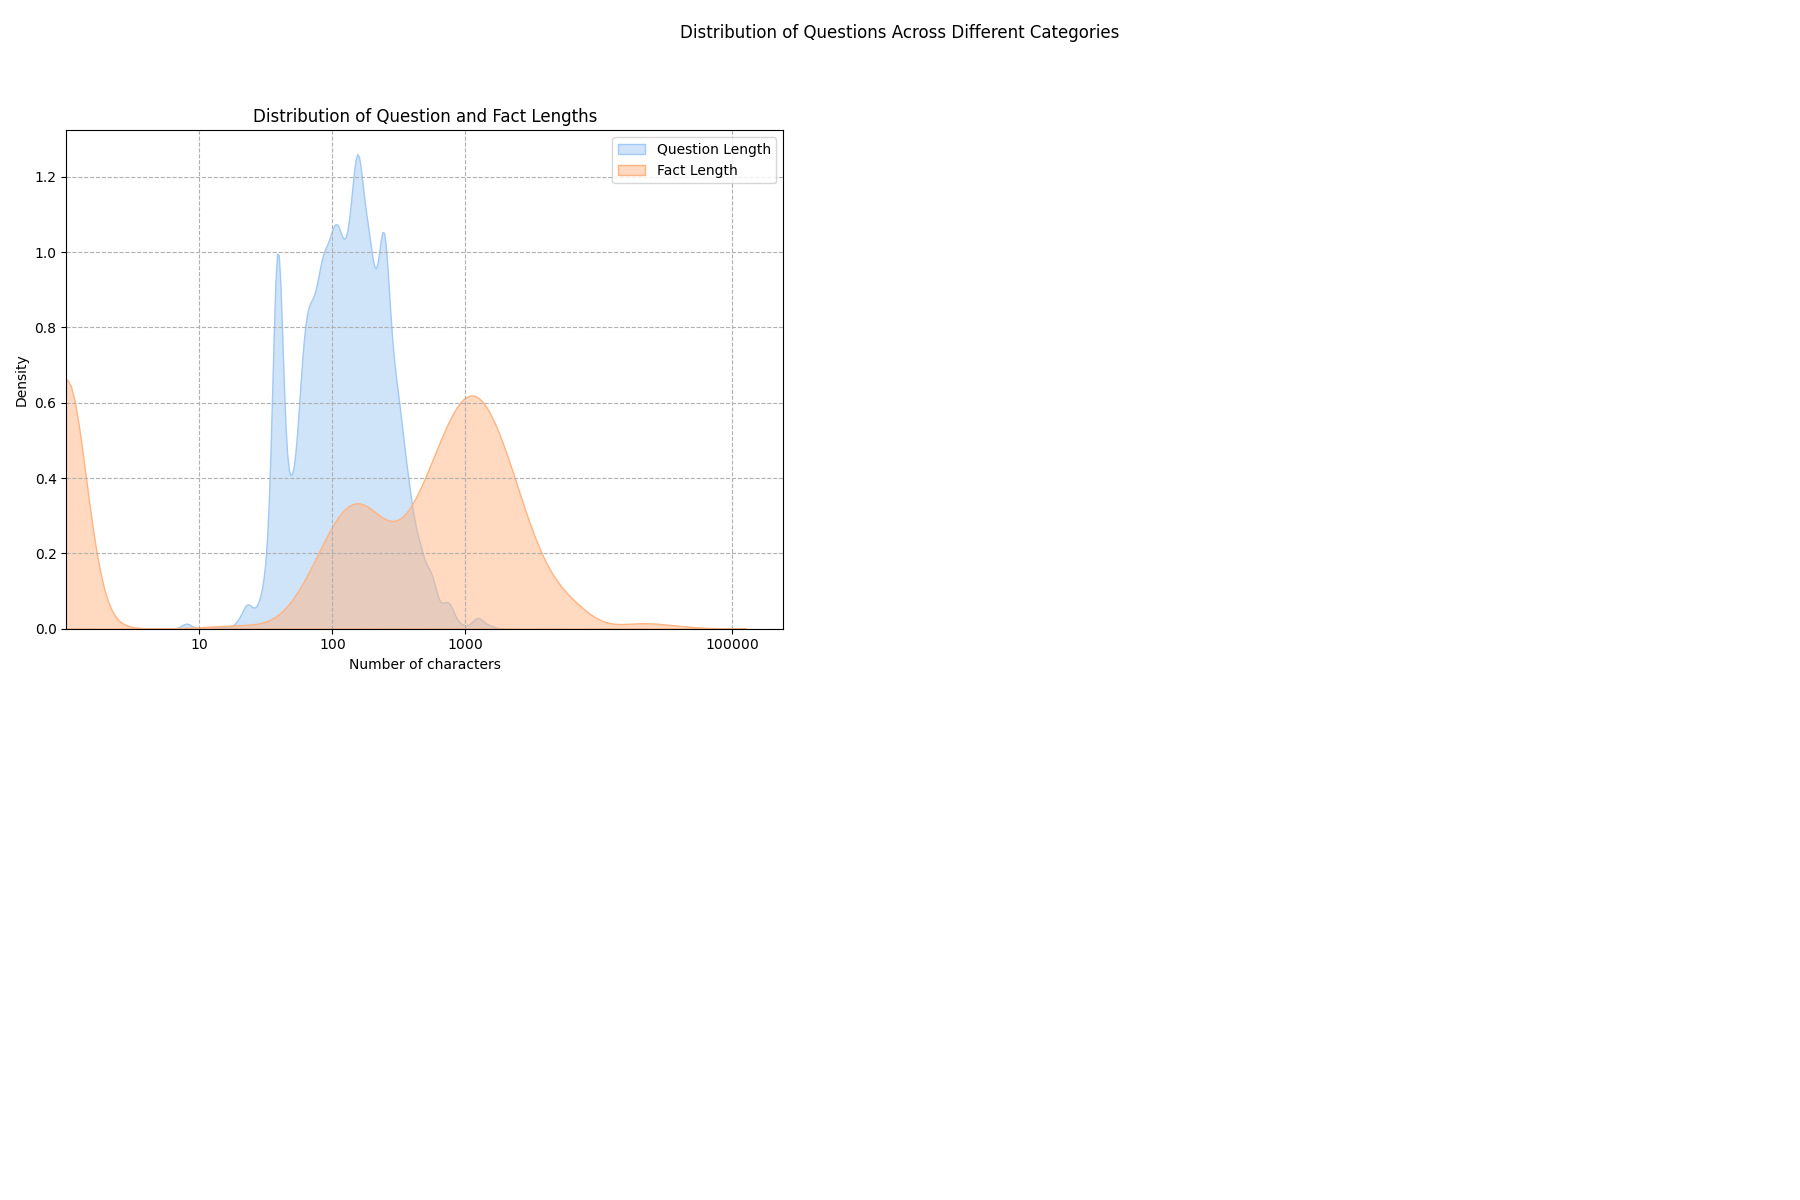
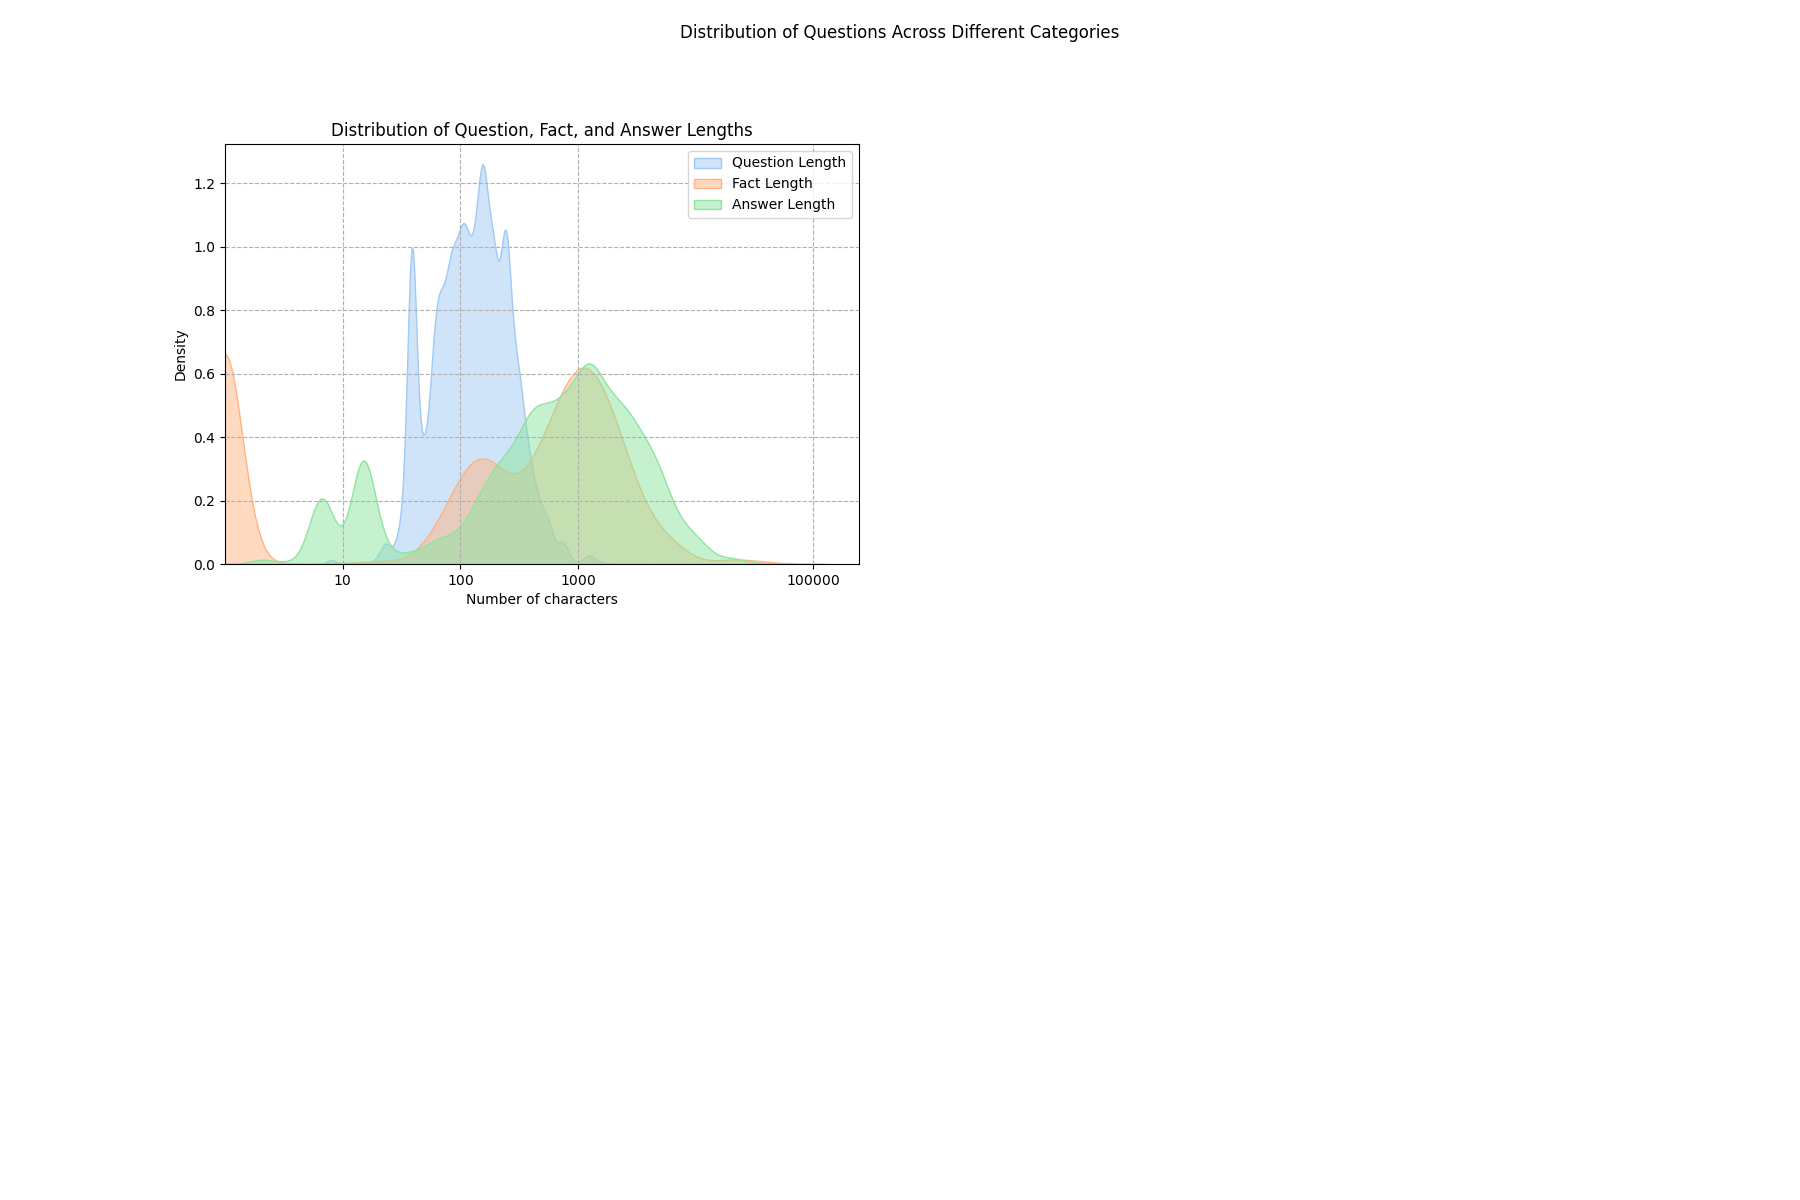
add answer distribution

Changed region(s): [[0.0933, 0.0925, 0.4667, 0.555], [0.0, 0.3083, 0.0933, 0.5242], [0.4044, 0.5242, 0.4356, 0.555]]

diff --git a/src/report.py b/src/report.py
@@ -155,32 +155,24 @@ def generate_visual_report(df: pd.DataFrame, save_path='results'):
     plot_double_pie(ax6, df, outer_col="Course", inner_col='Use_Art', title='Answers with citations of articles', course_colors=course_colors)
 
     # Adjust layout and save the figures
-    # plt.tight_layout(rect=[0, 0, 0.85, 0.95])
     fig.savefig(save_path+"/multichart.pdf", format='pdf')
     fig.savefig(save_path+"/multichart.png", format='png')
 
 
-# Function to plot distribution curve
-def plot_distribution_curve(ax, question_lengths, fact_lengths, title):
+# Function to plot distribution curves
+def plot_distribution_curve(ax, lengths_list, labels, title):
+    # Ensure that lengths_list and labels are the same length
+    assert len(lengths_list) == len(labels), "lengths_list and labels must be the same length."
+    
     # Filter out lengths smaller than 1 to avoid log(0) errors
-    question_lengths = question_lengths[question_lengths >= 1]
-    fact_lengths = fact_lengths[fact_lengths >= 1]
-
-    # Check if the data is empty after normalization
-    if question_lengths.empty or fact_lengths.empty:
-        ax.text(0.5, 0.5, 'No data available', ha='center', va='center', transform=ax.transAxes)
-        ax.set_title(title)
-        ax.set_xlabel('Log(Length)')
-        ax.set_ylabel('Normalized Density')
-        ax.grid(True, which="both", ls="--")
-        return
+    filtered_lengths = [lengths[lengths >= 1] for lengths in lengths_list]
 
     # Get pastel colors from the palette
-    pastel_colors = sns.color_palette("pastel")
+    pastel_colors = sns.color_palette("pastel", len(labels))
 
     # Plot the KDE plots for the normalized lengths with pastel colors
-    sns.kdeplot(np.log10(question_lengths), ax=ax, label='Question Length', bw_adjust=0.5, fill=True, alpha=0.5, color=pastel_colors[0])
-    sns.kdeplot(np.log10(fact_lengths), ax=ax, label='Fact Length', bw_adjust=0.5, fill=True, alpha=0.5, color=pastel_colors[1])
+    for lengths, label, color in zip(filtered_lengths, labels, pastel_colors):
+        sns.kdeplot(np.log10(lengths), ax=ax, label=label, bw_adjust=0.5, fill=True, alpha=0.5, color=color)
     
     # Adjust x-axis ticks for the log scale manually
     ax.set_title(title)
@@ -199,19 +191,25 @@ def plot_distribution_curve(ax, question_lengths, fact_lengths, title):
 
 # Function to generate the visual report
 def generate_visual_report2(df: pd.DataFrame, save_path='results'):
+
+    columns_to_plot = ['Question', 'Facts', 'Answer']
+    labels = ['Question Length', 'Fact Length', 'Answer Length']
+    title = 'Distribution of Question, Fact, and Answer Lengths'
+
+
     df = preprocess_data(df)
 
-    # Initialize the figure and grid with two rows and three columns
+    # Initialize the figure and grid with two rows and two columns
     fig = plt.figure(figsize=(18, 12))
     fig.suptitle('Distribution of Questions Across Different Categories')
     gs = GridSpec(2, 2, figure=fig)
 
     ax1 = fig.add_subplot(gs[0,0])
-    df['Question Length'] = df['Question'].apply(lambda x: len(str(x)))
-    df['Fact Length'] = df['Facts'].apply(lambda x: len(str(x)))
-    plot_distribution_curve(ax1, df['Question Length'], df['Fact Length'], 'Distribution of Question and Fact Lengths')
+    
+    lengths_list = [df[col].apply(lambda x: len(str(x))) for col in columns_to_plot]
+    
+    plot_distribution_curve(ax1, lengths_list, labels, title)
 
     # Adjust layout and save the figures
-    plt.tight_layout(rect=[0, 0, 0.85, 0.95])
-    fig.savefig(save_path+"/multichart2.pdf", format='pdf')
-    fig.savefig(save_path+"/multichart2.png", format='png')
+    fig.savefig(save_path + "/multichart2.pdf", format='pdf')
+    fig.savefig(save_path + "/multichart2.png", format='png')
